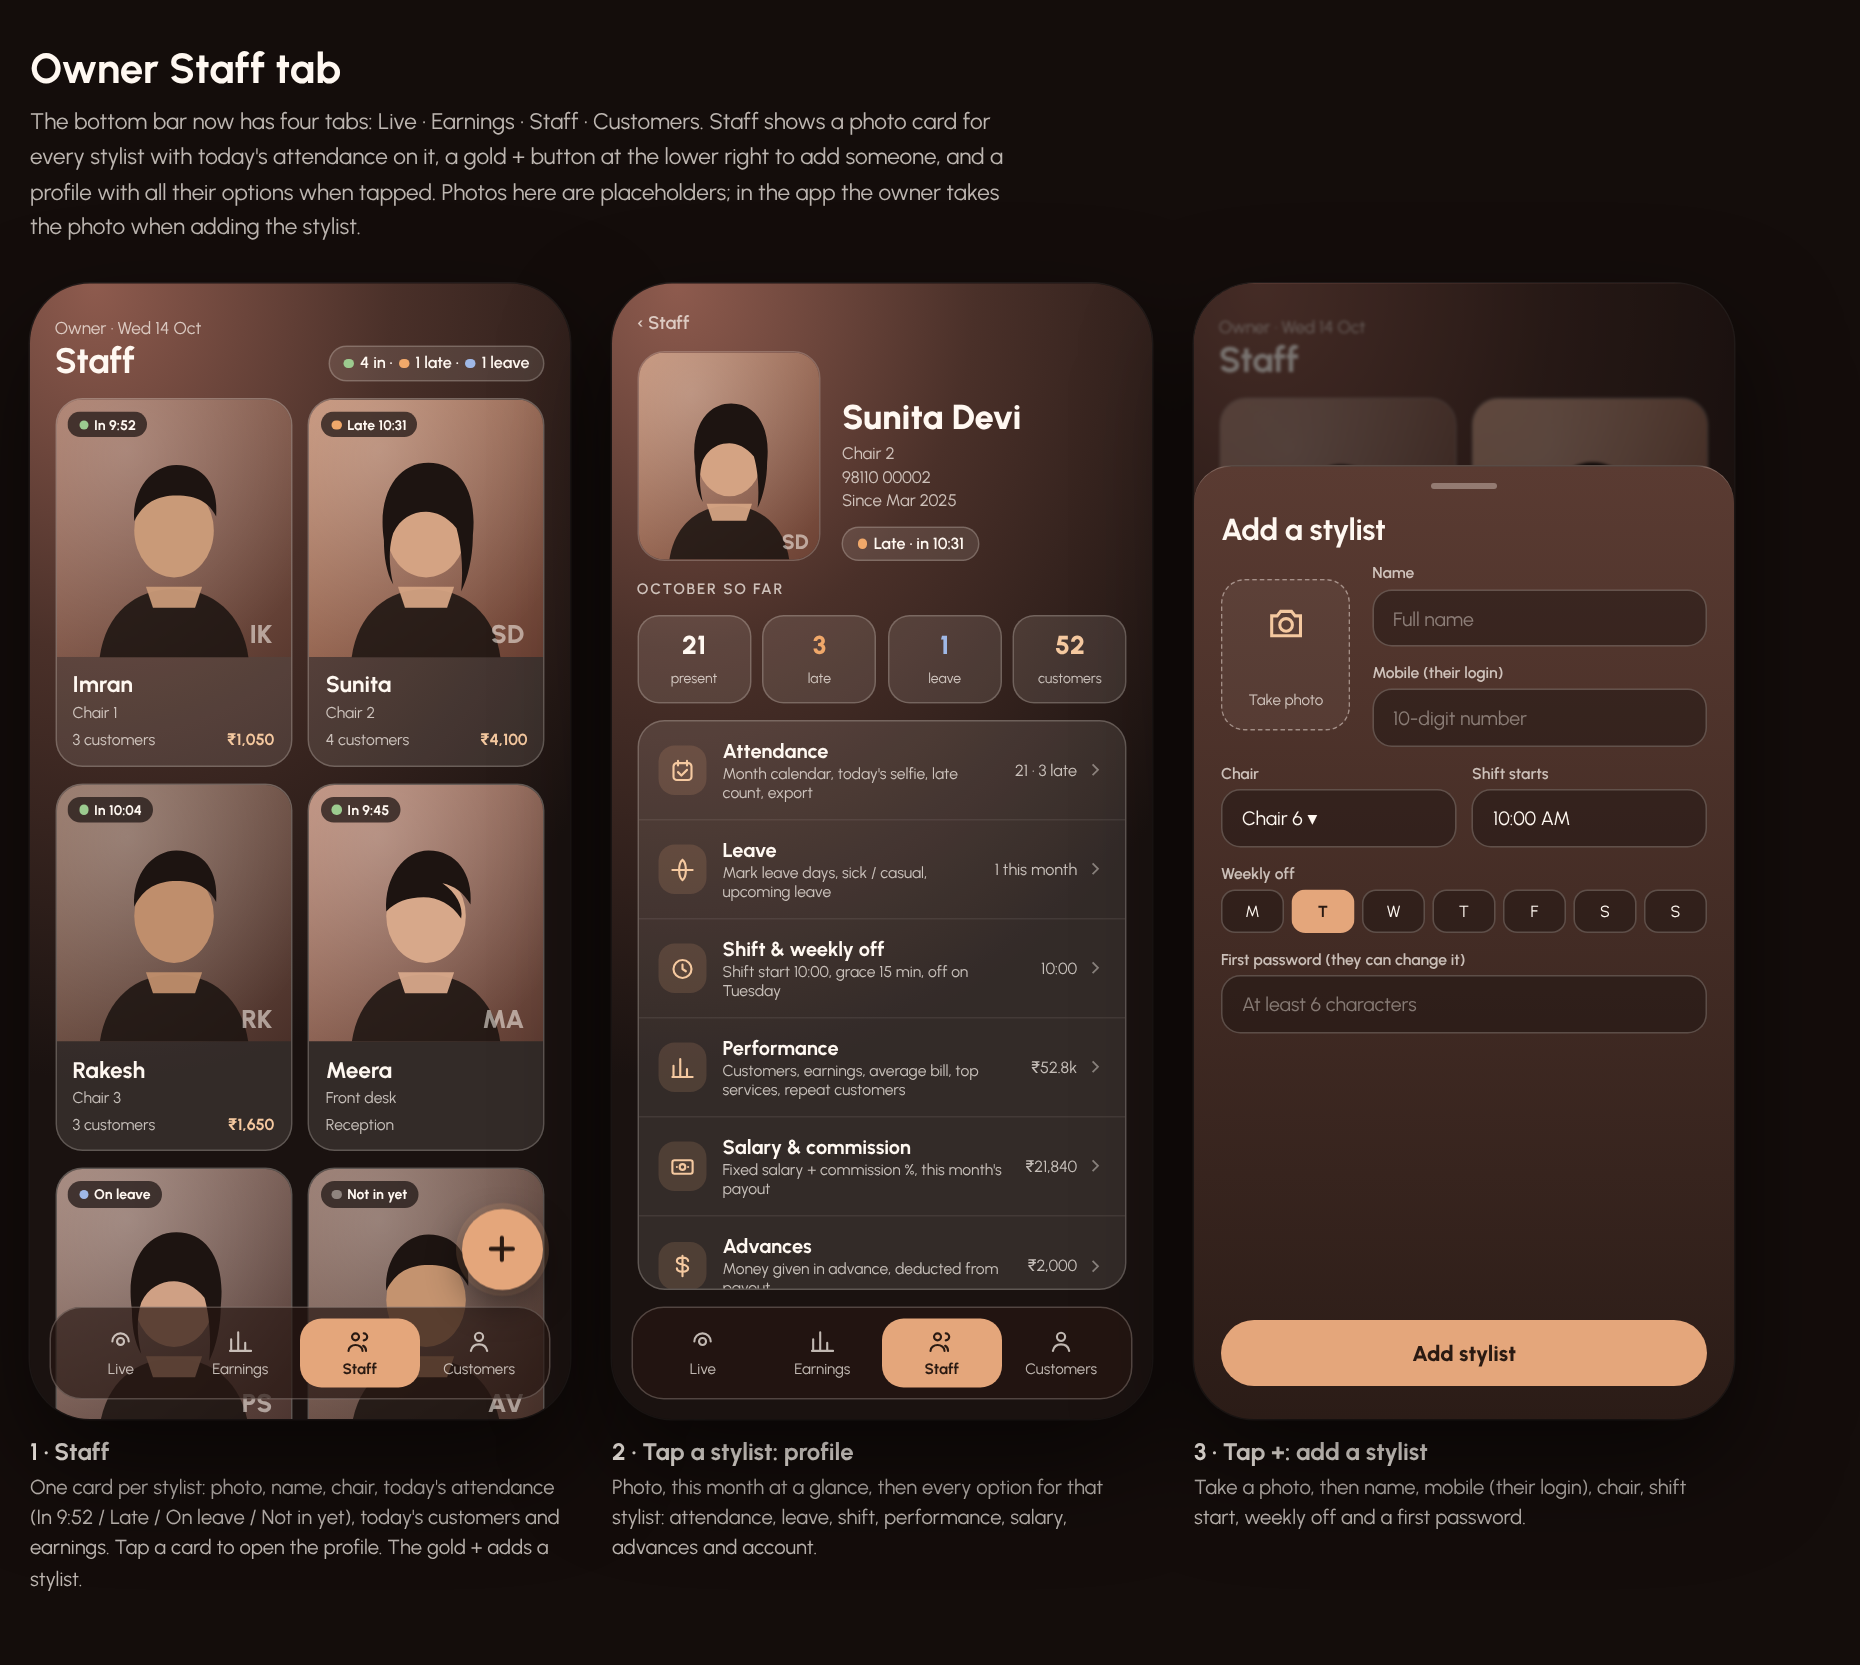
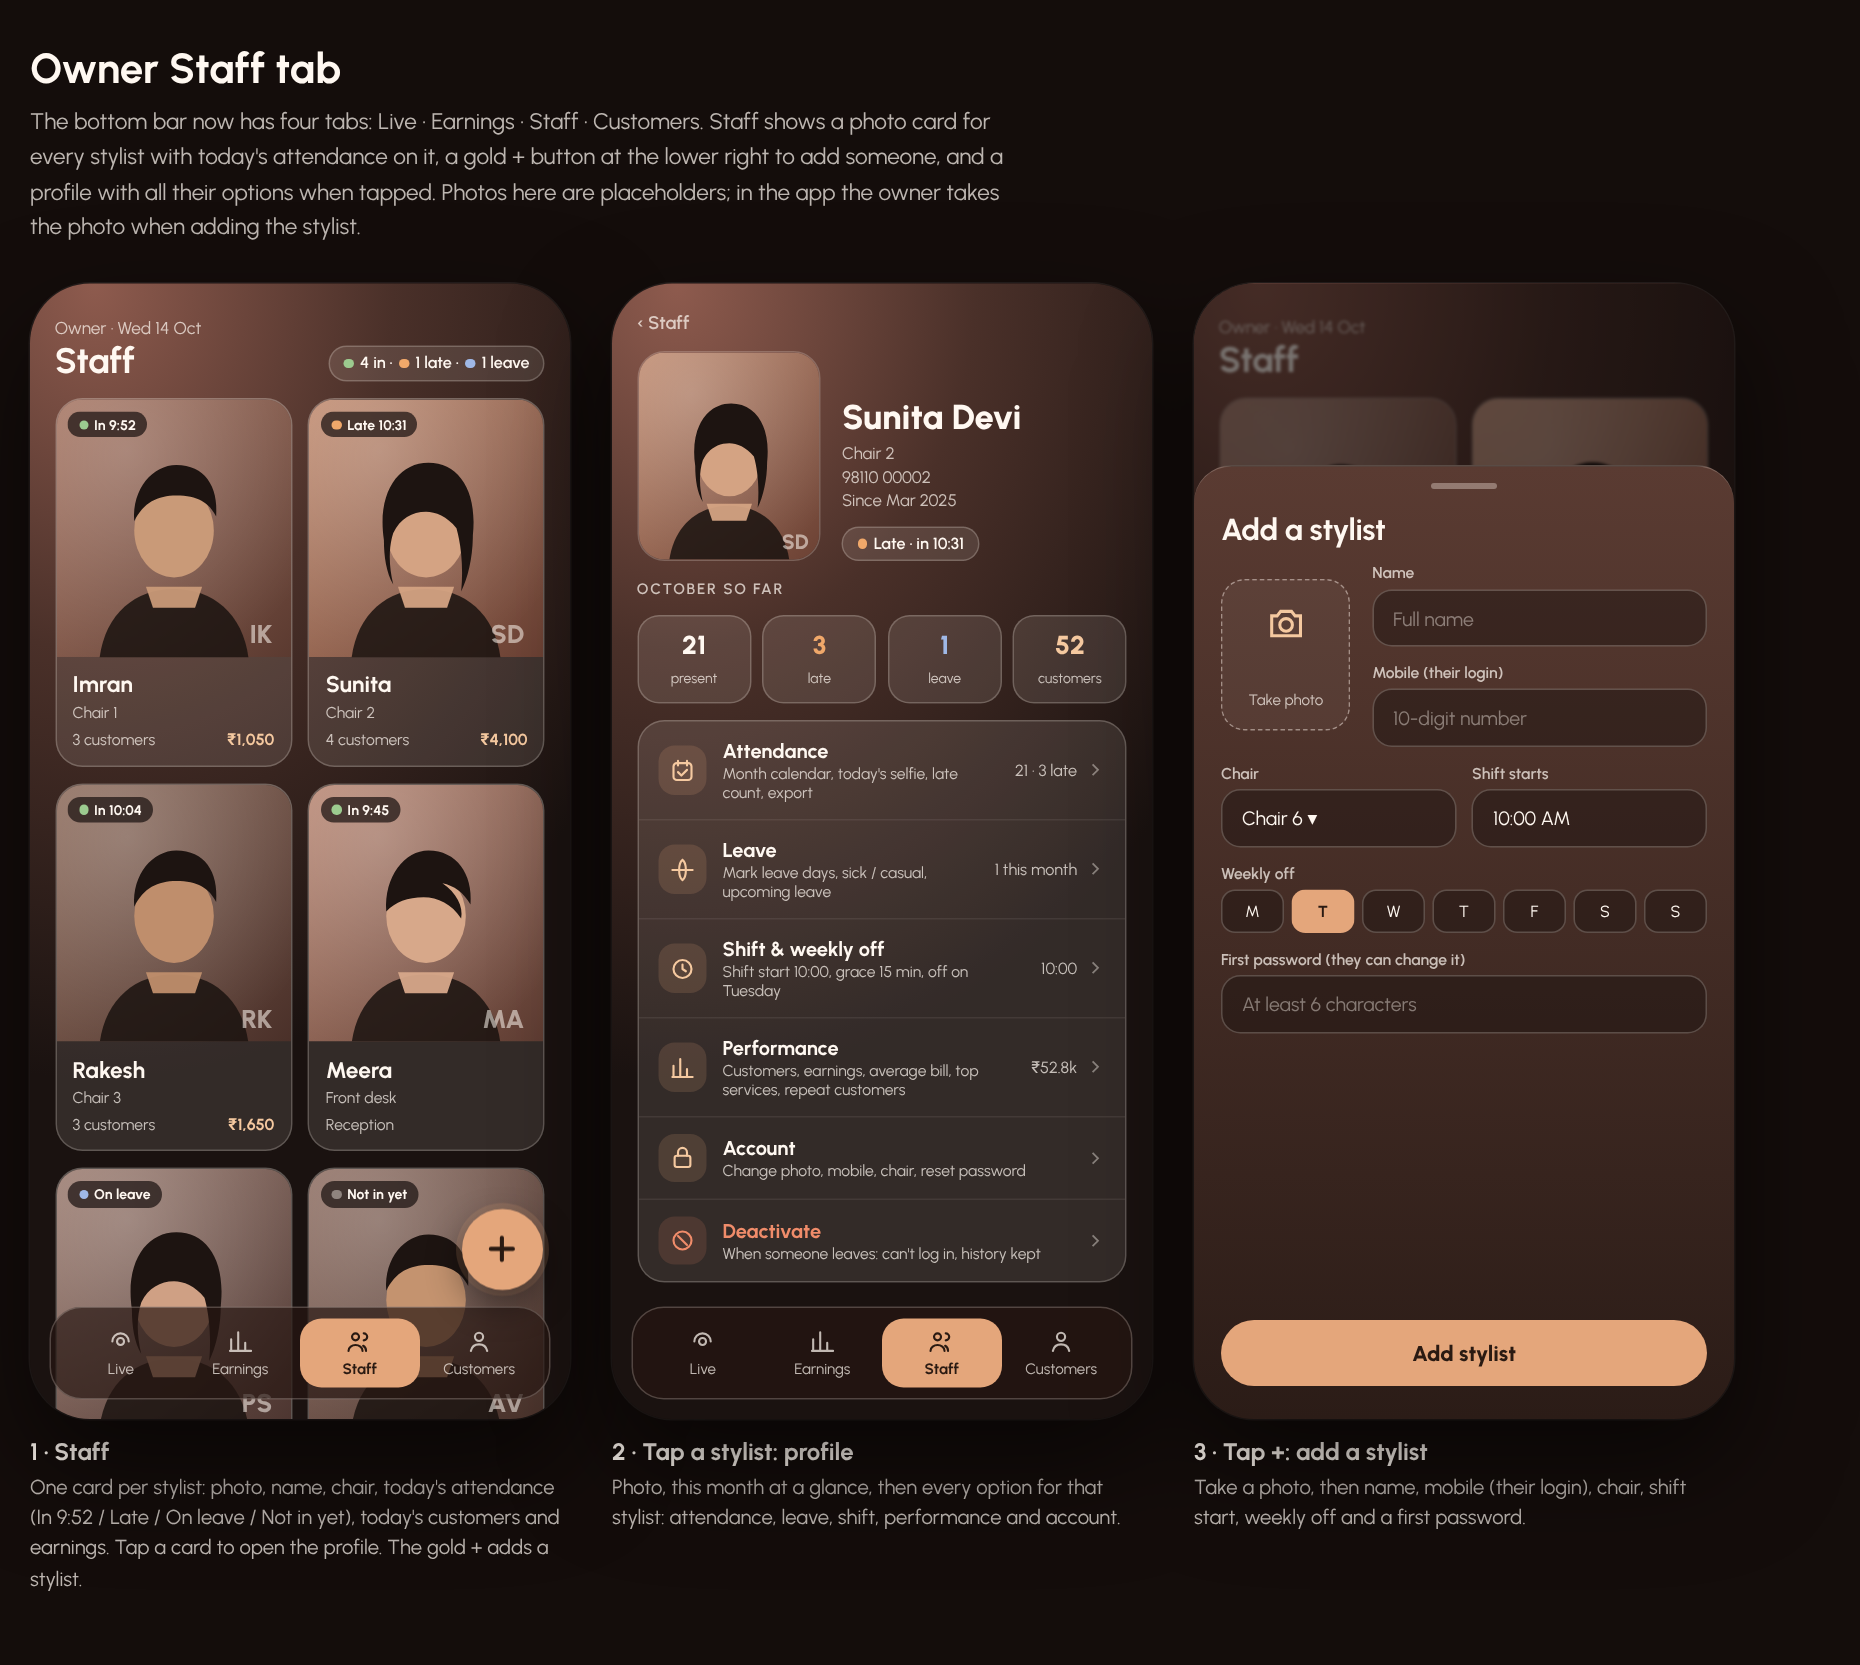
Staff profile: remove salary/commission and advances
Claude-Session: https://claude.ai/code/session_01BjSSchZsy6gAdMxf188SpF

diff --git a/salon-mobile/design-studies/owner-staff-tab.html b/salon-mobile/design-studies/owner-staff-tab.html
@@ -101,7 +101,7 @@ figcaption span{display:block;color:var(--soft);font-size:13.5px;line-height:1.5
 
   <div class="trio">
     <figure><div class="phone" id="p1"></div><figcaption><b>1 · Staff</b><span>One card per stylist: photo, name, chair, today's attendance (In 9:52 / Late / On leave / Not in yet), today's customers and earnings. Tap a card to open the profile. The gold + adds a stylist.</span></figcaption></figure>
-    <figure><div class="phone" id="p2"></div><figcaption><b>2 · Tap a stylist: profile</b><span>Photo, this month at a glance, then every option for that stylist: attendance, leave, shift, performance, salary, advances and account.</span></figcaption></figure>
+    <figure><div class="phone" id="p2"></div><figcaption><b>2 · Tap a stylist: profile</b><span>Photo, this month at a glance, then every option for that stylist: attendance, leave, shift, performance and account.</span></figcaption></figure>
     <figure><div class="phone" id="p3"></div><figcaption><b>3 · Tap +: add a stylist</b><span>Take a photo, then name, mobile (their login), chair, shift start, weekly off and a first password.</span></figcaption></figure>
   </div>
 </div>
@@ -146,8 +146,6 @@ const OPTS=[
   [ic('<path d="M3 12h18M12 3c4 3 4 15 0 18M12 3c-4 3-4 15 0 18"/>'),'Leave','Mark leave days, sick / casual, upcoming leave','1 this month'],
   [ic('<circle cx="12" cy="12" r="8"/><path d="M12 8v4l3 2"/>'),'Shift & weekly off','Shift start 10:00, grace 15 min, off on Tuesday','10:00'],
   [ic('<path d="M4 20V10M10 20V4M16 20v-7M21 20H3"/>'),'Performance','Customers, earnings, average bill, top services, repeat customers','₹52.8k'],
-  [ic('<rect x="3" y="6" width="18" height="12" rx="2"/><circle cx="12" cy="12" r="2.5"/><path d="M7 12h.01M17 12h.01"/>'),'Salary & commission','Fixed salary + commission %, this month\'s payout','₹21,840'],
-  [ic('<path d="M12 3v18M17 7.5c0-1.9-2.2-3-5-3s-5 1.1-5 3 2.2 2.6 5 3.2 5 1.4 5 3.3-2.2 3-5 3-5-1.1-5-3"/>'),'Advances','Money given in advance, deducted from payout','₹2,000'],
   [ic('<rect x="5" y="10" width="14" height="10" rx="2"/><path d="M8 10V7a4 4 0 0 1 8 0v3"/>'),'Account','Change photo, mobile, chair, reset password',''],
 ];
 document.getElementById('p2').innerHTML=`<div class="scr" style="padding-top:5cqw">

diff --git a/salon-mobile/BUILD-SPEC.md b/salon-mobile/BUILD-SPEC.md
@@ -80,7 +80,7 @@ Where things live:
 | 6.2 | **Live floor**: Higgsfield clay-3D salon (`design-studies/live-floor/final-live-floor.html`, https://claude.ai/artifact/7ezVmnK7b5bMkiWj6Snj4f). **Receptionist** (Meera) seated at the front desk; **no waiting area** (user, 19 Oct); 3 stylists working; chair labels with progress rings; cards below; "Front desk" status row. Customers walk with **real walk cycles** cut from Higgsfield video clips (frame chosen from distance walked, natural 24 fps pace). Loop ≈41 s: Dev checks in → chair 3 beard trim → pays ₹300 (total ₹6,800→₹7,100) → leaves; Neha wallet top-up (not counted as earnings); Rahul books a haircut for Sat 4:30 PM. Assets and credit log in `higgsfield-assets.md`. 3D/three.js rebuild shelved (`PLAN-3D.md`) | **Approved (19 Oct)** · build into the app as designed |
 | 6.3 | **Earnings** (user, 19 Oct): earnings circle dropped. **Chosen: Layout 2 kept as it is + Layout 3's three comparison cards** (Today / 7 days / Month, each with its change and its own trend line; tap a card to switch period) at the top. Below: total vs previous period, bar chart (last 7 days / 8 weeks / 6 months, current in gold, previous marked), stylists ranked with customers and earnings; **tap a stylist → full page**: their total and change vs before, a **line graph that follows the page's switch** (user, 19 Oct, replaces the Now/Before bars): **Day** = each day of the last 7 days (closed day marked, dashed daily average, today = so far); **Week** = each week of the current month (upcoming weeks empty) with last month's weeks as a dashed line, badge **"vs September"** = this week vs the same week last month; **Month** = the last 12 months (current month = so far, best month labelled, dashed monthly average), Day/Week/Month switch, customers with time, service, amount, payment type (week/month: day-by-day / week-by-week + top services). `design-studies/owner-earnings-final.html` | **Approved (19 Oct)** |
 | 6.4 | **Attendance**: today's selfies (green on time / orange late), month grid per person, **Excel export (one sheet per day + summary)** with barber-pole progress | Logic · Designed · **19 Oct: moves into the Staff tab** (no separate Attendance tab) |
-| 6.5 | **Staff tab** (user, 19 Oct): grid of **rectangular photo cards** (profile photo, name, chair, today's attendance badge In/Late/On leave/Not in yet, today's customers + earnings); **gold + button lower right** opens *Add a stylist* (photo, name, mobile = login, chair, shift start, weekly off, first password). **Tap a card → profile**: photo, contact, today's status, October at a glance (present/late/leave/customers), options: Attendance (calendar, selfie, export), Leave, Shift & weekly off, Performance, Salary & commission (optional), Advances (optional), Account (photo, mobile, chair, reset password), Deactivate. `design-studies/owner-staff-tab.html` | Designed · **Open: user to confirm options** |
+| 6.5 | **Staff tab** (user, 19 Oct): grid of **rectangular photo cards** (profile photo, name, chair, today's attendance badge In/Late/On leave/Not in yet, today's customers + earnings); **gold + button lower right** opens *Add a stylist* (photo, name, mobile = login, chair, shift start, weekly off, first password). **Tap a card → profile**: photo, contact, today's status, October at a glance (present/late/leave/customers), options: Attendance (calendar, selfie, export), Leave, Shift & weekly off, Performance, Account (photo, mobile, chair, reset password), Deactivate. **Salary & commission and Advances removed (user, 19 Oct).** `design-studies/owner-staff-tab.html` | Designed · **Open: user to confirm options** |
 | 6.6 | **Visits**: every visit, **void with reason** (refunds wallet, reverses referral) | Logic · Designed |
 | 6.7 | Customers list reachable from the owner area (for privacy requests) | Logic |
 | 6.8 | Wallet money held, top customers (scroll down on Earnings) | Logic |
